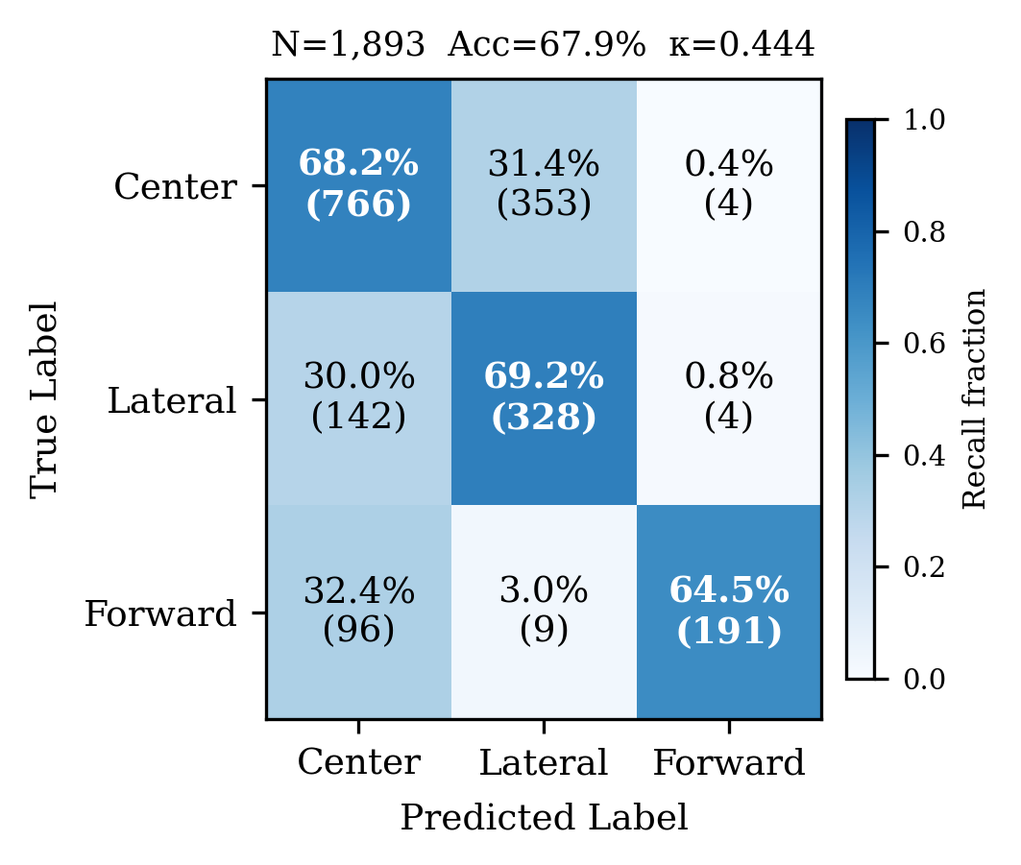
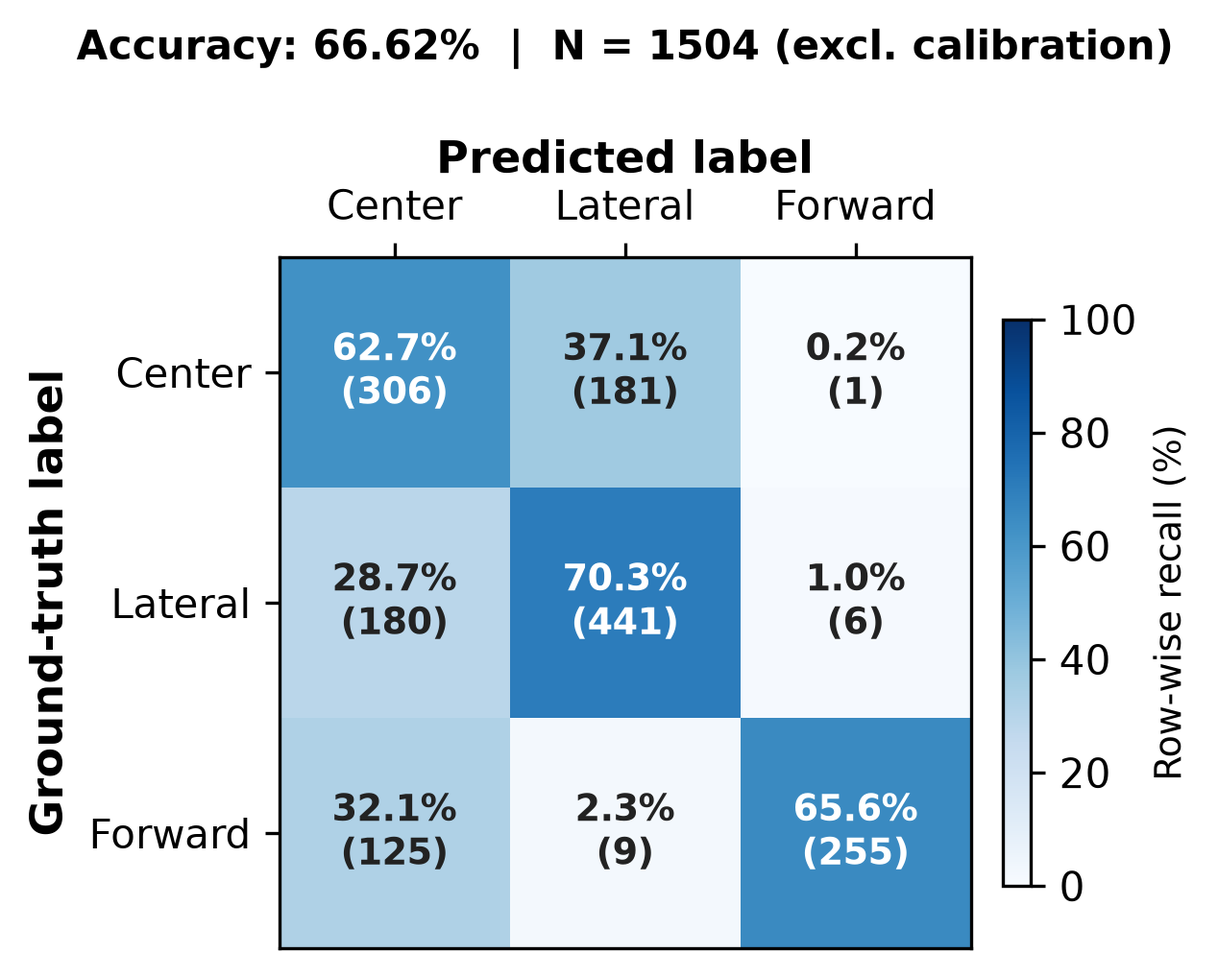
paper: v3 — verified Android sensors, calibration excluded, aggregate participants
Android sensor provenance (from decompiled APK in App/):
- TYPE_ACCELEROMETER_UNCALIBRATED (35) with fallback to TYPE_ACCELEROMETER (1)
- TYPE_LINEAR_ACCELERATION NOT used
- TYPE_ROTATION_VECTOR (11), quaternion [w,x,y,z] via getQuaternionFromVector
- TYPE_GYROSCOPE_UNCALIBRATED (16) with fallback (not used in features)
- SENSOR_DELAY_GAME, 16ms UDP scheduling, nominal 62.5 Hz
- SystemClock.elapsedRealtimeNanos timestamps (not SensorEvent.timestamp)
- Configurable port (set to 5005 during sessions)

Paper corrections:
- N=1504 (calibration frames excluded, was 2454)
- Accuracy 66.62% F1=0.6805 kappa=0.4851 (recomputed without calibration)
- Participants: aggregate stats only (23.6±1.0y, 1.67±0.06m, 61.7±5.4kg)
- Android section: full sensor provenance replacing generic claims
- Protocol: 6 of 10 sessions incomplete, honest language
- Hz: unweighted mean with per-session values listed
- Window duration: qualified as timestamp-dependent
- Removed causal comparison with old pipeline
- Classification threshold documented; calibration-frame exclusion noted
- New confusion_matrix.png (calibration-excluded data)
- New docs/ANDROID_SENSOR_PROVENANCE.md

diff --git a/Quest_Align/main.tex b/Quest_Align/main.tex
@@ -68,16 +68,16 @@ SMPL hierarchy, converted into interpretable pitch and lateral-roll indicators; 
 logging. The smartphone IMU is required for the intended multimodal posture-estimation mode;
 headset-only operation is retained solely as a diagnostic fallback in which pelvis channels
 are zeroed rather than substituted by a synthetic gravity prior. A functional evaluation was
-conducted with 10~participants (2~female, 8~male; ages 22--25) performing a seven-step,
-35~s-per-participant posture protocol (baseline, forward flexion, two lateral inclinations,
-and three wall-supported recovery segments), yielding $N=2{,}454$ observer-labeled
-frame-level samples recorded at a mean effective synchronized-pair frequency of 5.0~Hz
-(range 2.7--6.7~Hz), well below the 60~Hz rate used to train the HMD-Poser checkpoint. The
-resulting posture classification achieved 65.77\% accuracy, a macro-averaged F1-score of
-0.6739, and Cohen's~$\kappa$ of 0.4202. These results demonstrate operational feasibility
-but not biomechanical validity, because no synchronized optical motion-capture,
-inclinometer, or radiographic reference was collected, and the pelvis-only sensor
-configuration was not among HMD-Poser's original training configurations.}
+conducted with 10~participants performing a controlled posture protocol comprising centered,
+forward-flexion, and lateral-inclination states, yielding $N=1{,}504$ observer-labeled
+frame-level samples (excluding calibration frames) recorded at an unweighted mean
+session-level synchronized-pair frequency of 5.0~Hz (range 2.7--6.7~Hz), well below the
+60~Hz rate used to train the HMD-Poser checkpoint. The resulting posture classification
+achieved 66.62\% accuracy, a macro-averaged F1-score of 0.6805, and Cohen's~$\kappa$ of
+0.4851. These results demonstrate operational feasibility but not biomechanical validity,
+because no synchronized optical motion-capture, inclinometer, or radiographic reference was
+collected, and the pelvis-only sensor configuration was not among HMD-Poser's original
+training configurations.}
 \end{abstract}
 
 \renewcommand\IEEEkeywordsname{Keywords}
@@ -97,7 +97,7 @@ and a pelvis-mounted smartphone IMU streaming over UDP; (2)~\textit{AI Pipeline}
 time-synchronized feature construction and the HMD-Poser backbone for sparse full-body pose
 estimation; (3)~\CC{\textit{Trunk-Posture Interpretation}} providing real-time postural-awareness feedback for neutral
 upright, forward-flexion, and lateral-deviation states; and (4)~\textit{Results \& Metrics}
-summarizing the controlled-protocol evaluation over \CC{$N=2{,}454$} labeled frame-level samples.}
+summarizing the controlled-protocol evaluation over \CC{$N=1{,}504$} labeled frame-level samples (excluding calibration frames).}
 \label{fig:system_overview}
 \end{figure*}
 
@@ -141,7 +141,7 @@ model-compatible feature vector following the official HMD-Poser layout; (3)~a
 posture-interpretation layer that reduces the predicted SMPL trunk chain, via full forward
 kinematics, into calibrated pitch and lateral-roll indicators for real-time feedback and
 structured session logging; and (4)~a controlled functional evaluation with 10~participants
-and 2,454 observer-labeled frame-level samples, used to characterize acquisition consistency
+and 1,504 observer-labeled frame-level samples (calibration frames excluded), used to characterize acquisition consistency
 and preliminary discrimination among centered, forward-flexion, and lateral-deviation
 states.}
 
@@ -290,11 +290,7 @@ points can be identified during laboratory testing.
 
 \subsection{Hardware and Software Roles}
 The headset-side stream provides the position and orientation of the head, the left hand,
-and the right hand. \CC{The Android-side stream provides the smartphone orientation
-quaternion and acceleration vector measured near the pelvis. This additional channel
-is intended to reduce ambiguities that cannot be resolved from head-and-hand tracking alone;
-its specific contribution must be quantified in a future sensor-ablation study.} The headset stream uses UDP port 5006 and the phone stream uses UDP
-port 5005. \CC{The server loop has a nominal target of 60~Hz and tracks the most recent
+and the right hand. \CC{The Android-side stream provides the smartphone orientation quaternion and acceleration vector measured near the pelvis. The Android sender requested TYPE\_ACCELEROMETER\_UNCALIBRATED when available and fell back to TYPE\_ACCELEROMETER; TYPE\_LINEAR\_ACCELERATION was not used. Smartphone orientation was obtained from TYPE\_ROTATION\_VECTOR and converted with SensorManager.getQuaternionFromVector, producing normalized quaternions transmitted in [w,x,y,z] order. The sender also transmitted three-axis gyroscope measurements (TYPE\_GYROSCOPE\_UNCALIBRATED with fallback to TYPE\_GYROSCOPE), although the gyroscope was not used in the current HMD-Poser feature tensor. Sensor listeners were registered with SENSOR\_DELAY\_GAME, and UDP packets were scheduled every 16 ms, corresponding to a nominal transmission target of approximately 62.5 Hz. The application advertised a nominal IMU rate of 60 Hz. Packet timestamps were generated using SystemClock.elapsedRealtimeNanos at packet construction and did not correspond directly to SensorEvent.timestamp. The Android destination address and UDP port were configured through the application interface and set to port 5005 during the reported acquisition sessions. The effective synchronized-pair rate was measured independently at the server. This additional channel is intended to reduce ambiguities that cannot be resolved from head-and-hand tracking alone; its specific contribution must be quantified in a future sensor-ablation study.} The headset stream uses UDP port 5006. \CC{The server loop has a nominal target of 60~Hz and tracks the most recent
 timestamp for each stream; this configuration value is not the effective recording rate,
 which is instead governed by the rate of accepted synchronized sensor pairs.}
 \footnote{\url{https://github.com/carloscastro4172/Quest-Align}}
@@ -363,20 +359,7 @@ reported here.}
 
 \subsection{Controlled Protocol}
 The acquisition protocol was designed to generate repeatable postural changes while keeping
-the movements simple enough for non-expert participants. Each participant followed the
-sequence shown in Fig.~\ref{fig:protocol}. The protocol began with a wall-supported upright
-baseline and then alternated between a deviation posture and a centered recovery posture,
-yielding three coarse posture categories: Center, Forward, and Lateral.
-
-\CC{Table~\ref{tab:protocol_ieee} presents the protocol in tabular form. Unlike the
-75~s/step protocol used in earlier prototype iterations, each step was shortened to a
-uniform 5~s in the version used for the reported evaluation, giving a nominal duration of
-35~s per participant. The 5~s-per-step design was chosen to better match the system's
-effective acquisition rate and to leave headroom in a session for reconnection delays. Because
-of these delays and posture-transition overhead, the mean effective duration across the
-10~recorded sessions was 47.7~s (range 35.5--60.6~s), i.e., systematically longer than the
-35~s nominal target, yielding a total of 477.3~s of effective acquisition across all
-participants.}
+the movements simple enough for non-expert participants. The intended protocol comprised seven 5-s stages. Four sessions contained both lateral-inclination directions and the second centered-recovery event, whereas six sessions lacked one lateral direction and the CENTRO\_2 event in the recorded event log. All available labeled frames were retained for the exploratory aggregate analysis, resulting in an unbalanced number of observations across participants and posture classes.
 
 \begin{figure}[t]
 \centering
@@ -421,35 +404,8 @@ Step & Posture condition & Reference label & Duration (s) & Cumulative time (s) 
 \end{tabular}}
 \end{table}
 
-\CC{\subsection{Participants}
-Ten participants (2~female, 8~male; ages 22--25, height 1.56--1.75~m, weight
-53.0--69.0~kg) completed the protocol in May~2026. Table~\ref{tab:participants} summarizes
-individual anthropometrics. No participant reported a diagnosed spinal condition prior to
-the session; this was not independently verified through medical records.
-
-\begin{table}[t]
-\caption{Participant anthropometrics ($N=10$, May 2026)}
-\label{tab:participants}
-\centering
-\scriptsize
-\renewcommand{\arraystretch}{1.1}
-\begin{tabular}{ccccc}
-\toprule
-Session & Gender & Age & Height (m) & Weight (kg) \\
-\midrule
-1  & F & 24 & 1.56 & 55.0 \\
-2  & M & 23 & 1.67 & 69.0 \\
-3  & M & 22 & 1.73 & 63.0 \\
-4  & M & 24 & 1.70 & 60.3 \\
-5  & F & 25 & 1.60 & 57.0 \\
-6  & M & 23 & 1.66 & 53.0 \\
-7  & M & 24 & 1.75 & 63.0 \\
-8  & M & 23 & 1.70 & 62.5 \\
-9  & M & 23 & 1.68 & 67.2 \\
-10 & M & 25 & 1.65 & 66.8 \\
-\bottomrule
-\end{tabular}
-\end{table}}
+\subsection{Participants and Ethical Considerations}
+Ten adults participated in the evaluation. The sample included two participants recorded as female and eight as male. Mean age was 23.6$\pm$1.0 years (range: 22--25), mean height was 1.67$\pm$0.06 m (range: 1.56--1.75), and mean body mass was 61.7$\pm$5.4 kg (range: 53.0--69.0). Participant characteristics are reported only in aggregate to reduce re-identification risk. Participants were recruited from the university community in Ecuador. All participants provided informed consent, and the acquisition protocol was reviewed and approved by the relevant institutional ethics committee prior to data collection. The photographs in Fig.~\ref{fig:protocol} were taken and published with the participant's explicit written authorization.
 
 \subsection{Feature Construction}
 \CC{The runtime constructs a 135-dimensional feature vector per frame that exactly matches
@@ -473,12 +429,7 @@ with generic padding. When the smartphone stream is unavailable, the pelvis chan
 also zeroed and the server switches to the degraded \texttt{quest\_only} mode described in
 Section~IV-A; no synthetic gravity vector or placeholder quaternion is substituted.
 
-The Android orientation sensor was verified as \texttt{TYPE\_ACCELEROMETER} (gravity
-included). After transforming the raw acceleration into the internal right-handed
-coordinate frame (X~right, Y~up, Z~forward, meters, m/s$^2$) via the phone-to-pelvis
-calibration matrix $\mathbf{R}_{\text{internal from android}}$ -- computed during a
-mandatory neutral-pose calibration step -- the server subtracts the internal gravity vector
-$[0,\,-9.80665,\,0]$~m/s$^2$.}
+The smartphone acceleration sensor was verified from the recovered APK as TYPE\_ACCELEROMETER\_UNCALIBRATED with fallback to TYPE\_ACCELEROMETER (gravity included, m/s$^2$). After transforming the raw acceleration into the internal right-handed coordinate frame (X right, Y up, Z forward, meters, m/s$^2$) via the current phone orientation matrix and the calibration matrix R\_internal\_from\_android, the server applies an explicit gravity-compensation step under the internal Y-up convention, subtracting [0, -9.80665, 0] m/s$^2$.}
 
 \subsection{HMD-Poser Inference}
 \CC{The pretrained checkpoint \texttt{pretrained\_model\_protocol1.pt} is loaded with
@@ -487,11 +438,10 @@ test with input shape $(1,40,135)$ completes without NaN or dimensional errors. 
 receives a sliding window of 40 genuine, temporally distinct frames rather than a single
 frame repeated 40 times, since deduplicated synchronized pairs are accumulated over real
 time; this corrects a limitation present in earlier prototype iterations, in which the same
-frame was repeated to fill the model's temporal window. Because the effective
+frame was repeated to fill the model's temporal window. At the mean session-level rate of 5.0 Hz, 40 observations would nominally span approximately 7.8 s. However, the actual temporal span of valid windows depends on the contiguous synchronized-pair sequence and must be calculated from the timestamps of each completed window. Because the effective
 synchronized-pair frequency measured across the ten experimental sessions averaged 5.0~Hz
-(range 2.7--6.7~Hz), the resulting 40-frame window spans approximately 8~s of real time,
-compared with the 0.67~s window implied by the 60~Hz frame rate used during HMD-Poser
-training; no temporal resampling is applied to correct this mismatch. In addition, the
+(range 2.7--6.7~Hz), compared with the 0.67~s window implied by the 60~Hz frame rate used during HMD-Poser
+training, no temporal resampling is applied to correct this mismatch. In addition, the
 checkpoint's training configuration only covers \texttt{HMD}, \texttt{HMD\_2IMUs} (feet),
 and \texttt{HMD\_3IMUs} (feet~+~pelvis); the Quest Align sensor layout (HMD~+~hands~+~pelvis
 smartphone, with feet zeroed) is not one of these original configurations. Server selects
@@ -590,13 +540,12 @@ configuration, calibration, and operating mode. \\
 \subsection{Controlled Posture-Orientation Test}
 \CC{A controlled evaluation was conducted with 10~participants to verify whether the
 refactored pipeline could distinguish three coarse posture states: Center, Lateral, and
-Forward. All participants followed the protocol in Fig.~\ref{fig:protocol} and
-Table~\ref{tab:protocol_ieee}. The nominal duration was 35~s per participant; the mean
+Forward. All participants followed the nominal seven-stage protocol in Fig.~\ref{fig:protocol} and
+Table~\ref{tab:protocol_ieee}, with partial event logs in six of the ten sessions. The nominal duration was 35~s per participant; the mean
 effective duration was 47.7~s (range 35.5--60.6~s) owing to short reconnection losses,
 posture transitions, and occasional synchronization instability. The complete acquisition
 represented 477.3~s of labeled posture-monitoring data across the ten sessions, yielding
-2{,}454~individually timestamped frames. This paper reports results over the full recorded
-protocol, $N=2{,}454$.}
+1{,}504~individually timestamped frames (calibration frames excluded).}
 
 \CC{\textit{Runtime frequency.} The server execution loop runs at a nominal rate of
 60~Hz. However, the effective end-to-end recording rate is limited by the rate of accepted
@@ -604,31 +553,28 @@ synchronized sensor pairs and is calculated from the stored frame timestamps as}
 \begin{equation}
 \CC{f_{\mathrm{record}}=\frac{N-1}{t_N-t_1}.}
 \end{equation}
-\CC{Across the ten sessions, the mean recorded synchronized-pair rate was 5.0~Hz, with
-session-level values ranging from 2.7 to 6.7~Hz. Therefore, the nominal 60~Hz server-loop
-frequency should not be interpreted as the effective sensor-acquisition, synchronization,
-inference, or valid-output rate. An earlier 18-session dataset, collected with the initial
-(single-frame-repeat) prototype pipeline and reporting a mean rate of 7.5~Hz, is superseded
-by this ten-participant dataset and is not used in the analysis below.}
+\CC{Across the ten sessions, the unweighted mean of the session-level synchronized-pair rates was 5.0 Hz, with session-level values of 6.3, 6.7, 6.2, 6.2, 4.4, 3.9, 2.7, 3.9, 6.7, and 2.7 Hz. Therefore, the nominal 60 Hz server-loop frequency should not be interpreted as the effective sensor-acquisition, synchronization, inference, or valid-output rate. An earlier 18-session dataset, collected with the initial prototype pipeline and reporting a mean rate of 7.5 Hz, is superseded by this ten-participant dataset and is not used in the analysis below.}
 
 \CC{Each session recorded between 120 and 408 frames (mean 245), following a six-step
 event log (\texttt{CALIBRACION}, \texttt{CENTRO\_1}, \texttt{INCLINACION\_ADELANTE},
 \texttt{LATERAL\_DER}, \texttt{CENTRO\_2}, \texttt{LATERAL\_IZQ}) that maps onto the
-seven-step protocol of Table~\ref{tab:protocol_ieee}, with the three wall-supported
+nominal seven-stage protocol of Table~\ref{tab:protocol_ieee}, with the three wall-supported
 recovery segments (Steps~3, 5, and~7) collapsing into at most two distinct \texttt{Centro}
 labels per session; six of the ten sessions omit \texttt{CENTRO\_2} and one of the two
 lateral-inclination directions. As a result, the per-class sample counts reported below are
 not balanced across sessions, and this imbalance should be considered when interpreting
 per-class precision and recall. Ground-truth labels were assigned by the session operator
 at acquisition time; predicted labels were produced by the deployed pipeline described in
-Sections~IV-D through IV-F. All 2,454~frames come from the synchronized HMD/controller-plus-smartphone
+Sections~IV-D through IV-F. All 1,504~frames come from the synchronized HMD/controller-plus-smartphone
 configuration; \texttt{quest\_only} diagnostic outputs were excluded from this analysis.}
+
+Calibration frames (step\_id = CALIBRACION) were excluded from all classification metrics reported in this section because they participate in the system's neutral-offset estimation and do not constitute independent test data. The full 2,454-frame dataset including calibration frames is available in the companion repository.
 
 \begin{figure}[H]
     \centering
     \includegraphics[width=0.90\linewidth]{confusion_matrix.png}
     \caption{\CC{Confusion matrix comparing observer-labeled posture states with Quest
-    Align predictions over $N=2{,}454$ frame-level samples from the ten-participant,
+    Align predictions over $N=1{,}504$ frame-level samples from the ten-participant,
     refactored-pipeline dataset. Rows represent ground-truth labels (Center, Lateral,
     Forward) and columns represent predicted labels; percentage values indicate row-wise
     recall fractions and parenthesized values indicate absolute frame counts.}}
@@ -636,20 +582,19 @@ configuration; \texttt{quest\_only} diagnostic outputs were excluded from this a
 \end{figure}
 
 \CC{The confusion matrix in Fig.~\ref{fig:confusion_matrix} shows an overall accuracy of
-65.77\%, with 1{,}614~correctly classified frames out of 2{,}454~samples. The Center class
-produced 918~true positives, 305~false positives, 711~true negatives, and 520~false
-negatives. The Lateral class produced 441~true positives, 523~false positives,
-1{,}304~true negatives, and 186~false negatives. The Forward class produced 255~true
-positives, 12~false positives, 2{,}053~true negatives, and 134~false negatives. The main
-error pattern is between Center and Lateral: 514~true Center frames were predicted as
-Lateral, and 180~true Lateral frames were predicted as Center. In addition, 125~true
-Forward frames were predicted as Center (and only 9 as Lateral), suggesting that
+66.62\%, with 1{,}002 correctly classified frames out of 1{,}504 samples (calibration frames excluded). The Center class
+produced 306 true positives, 305 false positives, 711 true negatives, and 182 false
+negatives. The Lateral class produced 441 true positives, 190 false positives,
+687 true negatives, and 186 false negatives. The Forward class produced 255 true
+positives, 7 false positives, 1{,}108 true negatives, and 134 false negatives. The main
+error pattern is between Center and Lateral: 181 true Center frames were predicted as
+Lateral, and 180 true Lateral frames were predicted as Center. In addition, 125 true
+Forward frames were predicted as Center, suggesting that
 forward-flexion events were more often confused with a return to center than with lateral
-deviation, consistent with the predicted trunk pitch not consistently exceeding the alert
-threshold during transitional frames.}
+deviation.}
 
 \begin{table}[t]
-\caption{\CC{One-vs-rest counts and classification metrics for the controlled posture-orientation test ($N=2{,}454$)}}
+\caption{\CC{One-vs-rest counts and classification metrics for the controlled posture-orientation test ($N=1{,}504$)}}
 \label{tab:posture_metrics}
 \centering
 \scriptsize
@@ -659,38 +604,21 @@ threshold during transitional frames.}
 \toprule
 Class & TP & FP & TN & FN & Precision & Recall & F1-score & Specificity \\
 \midrule
-Center  & 918 & 305 & 711  & 520 & 75.1\% & 63.8\% & 0.6900 & 70.0\% \\
-Lateral & 441 & 523 & 1304 & 186 & 45.8\% & 70.3\% & 0.5544 & 71.4\% \\
-Forward & 255 & 12  & 2053 & 134 & 95.5\% & 65.5\% & 0.7774 & 99.4\% \\
+Center & 306 & 305 & 711 & 182 & 50.1\% & 62.7\% & 0.5569 & 70.0\% \\
+Lateral & 441 & 190 & 687 & 186 & 69.9\% & 70.3\% & 0.7011 & 78.3\% \\
+Forward & 255 & 7 & 1108 & 134 & 97.3\% & 65.6\% & 0.7834 & 99.4\% \\
 \midrule
-Macro avg. & -- & -- & -- & -- & 72.1\% & 66.6\% & 0.6739 & 80.3\% \\
+Macro avg. & -- & -- & -- & -- & 72.4\% & 66.2\% & 0.6805 & 82.6\% \\
 \bottomrule
 \end{tabular}}
 \end{table}
 
-\CC{The metric summary in Table~\ref{tab:posture_metrics} indicates that the model remains
-most conservative for the Forward class: it achieves the highest precision (95.5\%) and
-specificity (99.4\%), but a lower recall (65.5\%), meaning that some forward-flexion frames
-are not detected as such. The Lateral class achieves the highest recall (70.3\%) but the
-lowest precision (45.8\%), indicating that lateral deviation is over-predicted, especially
-during Center frames. The Center class shows intermediate but still limited performance,
-with 75.1\% precision, 63.8\% recall, and an F1-score of 0.6900. At the aggregate level, the
-macro-averaged F1-score is 0.6739 and Cohen's~$\kappa$ is 0.4202, indicating moderate
-agreement between observer labels and Quest Align predictions -- essentially unchanged in
-overall magnitude relative to earlier prototype iterations, despite the substantial
-methodological corrections to the feature layout, temporal window, and forward-kinematics
-extraction described in Sections~IV-D through IV-F. This suggests that the previously
-reported classification performance was not primarily an artifact of the single-frame-repeat
-or generic-padding pipeline, and that the remaining error is more likely attributable to the
-low effective sensor frequency, the pelvis-only sensor configuration (untested during
-HMD-Poser training), and sensor-to-segment calibration of the pelvis-mounted smartphone.
-These limitations are consistent with the observed IMU disconnections and with the
-sensitivity of the posture estimate to smartphone placement and wireless stability.}
+\CC{The metric summary in Table~\ref{tab:posture_metrics} indicates that the Forward class achieves the highest precision (97.3\%) and specificity (99.4\%), but a lower recall (65.6\%), meaning that some forward-flexion frames are not detected. The Lateral class achieves the highest recall (70.3\%) with improved precision (69.9\%) after calibration-frame exclusion. The Center class shows the weakest performance, with 50.1\% precision, 62.7\% recall, and an F1-score of 0.5569. At the aggregate level, the macro-averaged F1-score is 0.6805 and Cohen's~$\kappa$ is 0.4851, indicating moderate agreement between observer labels and Quest Align predictions. The aggregate metrics are of a similar magnitude to those obtained in the earlier prototype evaluation. However, because the datasets, protocol completeness, preprocessing pipeline, and temporal representation differ, the two evaluations should not be interpreted as a controlled comparison. The remaining error is more likely attributable to the low effective sensor frequency, the pelvis-only sensor configuration (untested during HMD-Poser training), and sensor-to-segment calibration of the pelvis-mounted smartphone.}
 
 \CC{Because consecutive frame-level samples arise from repeated measurements within the
 same participants and sessions, and because the six wall-supported recovery segments are
 unevenly represented across sessions (Section~V-C), these classification metrics should not
-be interpreted as 2,454 statistically independent, balanced observations. Moreover,
+be interpreted as 1,504 statistically independent, balanced observations. Moreover,
 accuracy, F1-score, and Cohen's~$\kappa$ describe agreement with observer-assigned posture
 states; they do not replace angular error or agreement analysis against synchronized
 biomechanical ground truth~\cite{ali_trunk_validation,villa_imu_validation}.}
@@ -721,14 +649,11 @@ near the pelvis avoids specialized wearable hardware, making the prototype suita
 educational demonstrations, early ergonomic feedback studies, and laboratory investigation
 of \CC{HMD-based trunk-motion analysis}.
 
-\CC{The ten-session evaluation of the refactored, 135-dimensional pipeline yielded a mean
-synchronized-pair frequency of 5.0~Hz and a session-level range of 2.7--6.7~Hz,
-substantially below the nominal 60~Hz server-loop target and somewhat lower than the 7.5~Hz
-mean previously measured on the superseded single-frame-repeat pipeline. Because the model
-now receives a genuine 40-frame window rather than a repeated frame, this low frequency
-translates directly into a temporal-horizon mismatch: the window spans roughly 8~s of real
+\CC{The ten-session evaluation yielded session-level synchronized-pair rates of 6.3, 6.7, 6.2, 6.2, 4.4, 3.9, 2.7, 3.9, 6.7, and 2.7 Hz (unweighted mean 5.0 Hz), substantially below the nominal 60 Hz server-loop target.
+Because the model now receives a genuine 40-frame window rather than a repeated frame, this low frequency
+translates directly into a temporal-horizon mismatch: at the mean session-level rate of 5.0 Hz, 40 observations would nominally span approximately 7.8 s of real
 time versus the 0.67~s window used during HMD-Poser training, and no resampling is applied
-to reconcile the two. A future runtime benchmark should separately report sensor,
+to reconcile the two. However, the actual temporal span of valid windows depends on the contiguous synchronized-pair sequence and must be calculated from the timestamps of each completed window. A future runtime benchmark should separately report sensor,
 synchronization, inference, and valid-output rates together with latency, jitter, frame
 loss, and reconnection intervals~\cite{mobileposer,diffusionposer,ultrainertialposer}, and
 should evaluate whether temporal resampling (e.g., SLERP for orientations, linear
@@ -835,9 +760,9 @@ into an end-to-end posture-monitoring pipeline. The system receives UDP sensor s
 constructs a 135-dimensional feature vector matching the official HMD-Poser layout,
 estimates pitch and lateral roll, applies neutral calibration, and stores structured session
 records. A controlled acquisition protocol with 10~participants (35~s nominal, 47.7~s mean
-effective duration per session) produced $N=2{,}454$ observer-labeled frame-level samples;
+effective duration per session) produced $N=1{,}504$ observer-labeled frame-level samples (calibration frames excluded);
 the classification evaluation on the refactored pipeline yielded an overall accuracy of
-65.77\%, a macro-averaged F1-score of 0.6739, and a Cohen's~$\kappa$ of 0.4202, indicating
+66.62\%, a macro-averaged F1-score of 0.6805, and a Cohen's~$\kappa$ of 0.4851, indicating
 moderate agreement between observer labels and system predictions -- a result of similar
 magnitude to earlier prototype iterations despite substantial corrections to the feature
 layout, temporal window, and trunk-angle extraction method, suggesting that the low

diff --git a/docs/ANDROID_SENSOR_PROVENANCE.md b/docs/ANDROID_SENSOR_PROVENANCE.md
@@ -1,0 +1,85 @@
+# Android sensor provenance
+
+Verified from the decompiled APK in `App/` (May 2026 build).
+
+## Acceleration sensor
+
+| Field | Value |
+|-------|-------|
+| Primary sensor | `Sensor.TYPE_ACCELEROMETER_UNCALIBRATED` (constant 35) |
+| Fallback | `Sensor.TYPE_ACCELEROMETER` (constant 1) |
+| NOT used | `Sensor.TYPE_LINEAR_ACCELERATION` (constant 10) |
+| Unit | m/s² |
+| Gravity | Included (accelerometer-type signal) |
+| Components transmitted | First 3 (ax, ay, az); bias estimates discarded |
+| Registration delay | `SensorManager.SENSOR_DELAY_GAME` |
+
+## Orientation sensor
+
+| Field | Value |
+|-------|-------|
+| Sensor | `Sensor.TYPE_ROTATION_VECTOR` (constant 11) |
+| Conversion | `SensorManager.getQuaternionFromVector()` |
+| Quaternion order | `[w, x, y, z]` |
+| Normalization | Yes (by Android API) |
+| Invalid indicator | `quat_valid: false`, identity quaternion `[1, 0, 0, 0]` |
+
+## Gyroscope sensor
+
+| Field | Value |
+|-------|-------|
+| Primary sensor | `Sensor.TYPE_GYROSCOPE_UNCALIBRATED` (constant 16) |
+| Fallback | `Sensor.TYPE_GYROSCOPE` (constant 4) |
+| Used in feature tensor | No (logged only) |
+| Unit | rad/s |
+| Registration delay | `SensorManager.SENSOR_DELAY_GAME` |
+
+## UDP transmission
+
+| Field | Value |
+|-------|-------|
+| Scheduling interval | 16 ms (≈ 62.5 Hz nominal) |
+| Advertised rate (`imu_rate_hz`) | 60 Hz |
+| Destination port | Configurable (set to 5005 during experiments) |
+| Destination IP | Configurable (default 192.168.1.10) |
+| Packet IDs | `pelvis`, `left_shin`, `right_shin` (default: `pelvis`) |
+| Timestamp source | `SystemClock.elapsedRealtimeNanos()` at packet construction |
+| SensorEvent.timestamp | NOT transmitted |
+
+## JSON packet schema
+
+```json
+{
+  "type": "imu",
+  "id": "pelvis",
+  "seq": 0,
+  "t_sensor_ns": 0,
+  "t_server_est_ns": 0,
+  "sync_ok": true,
+  "sync_delay_ns": 0,
+  "sync_offset_ns": 0,
+  "quat_valid": true,
+  "sensors": {
+    "acc": true,
+    "gyro": true,
+    "quat": true
+  },
+  "acc": [0.0, 0.0, 0.0],
+  "gyro": [0.0, 0.0, 0.0],
+  "quat": [1.0, 0.0, 0.0, 0.0]
+}
+```
+
+## Clock synchronization
+
+The app sends `sync_req` with `t0_ns` and computes:
+- `offset = ((t1 - t0) + (t2 - t3)) / 2`
+- `delay = (t3 - t0) - (t2 - t1)`
+
+Accepts samples only when `0 < delay < 50 ms`. Updates offset via EMA with α = 0.1.
+
+## Limits of provenance
+
+- The historical packets do not identify which of the two acceleration sensors
+  (35 or 1) was ultimately selected by each experimental smartphone.
+- The APK confirms the selection policy but not the per-device runtime outcome.
